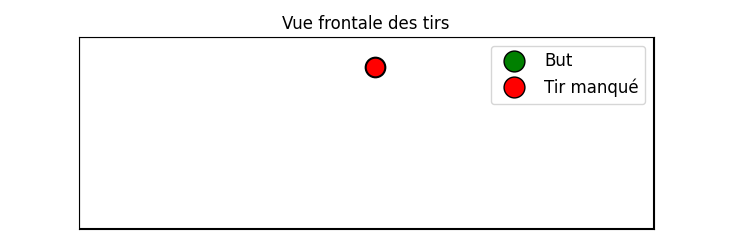
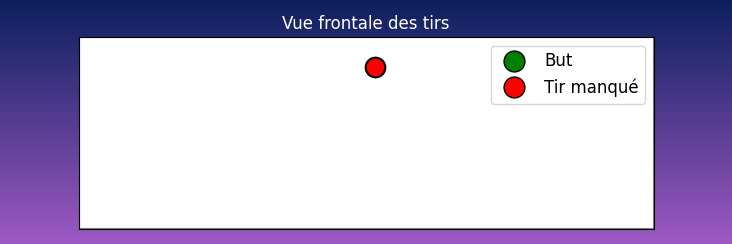
MAJ - new

diff --git a/src/player_visualizer.py b/src/player_visualizer.py
@@ -55,7 +55,7 @@ class PlayerVisualizer:
 
         # Choisir les deux couleurs en hexadecimal
         color1 = "#0c205d"  # Bleu foncé
-        color2 = "#9e59c4"  # Violet
+        color2 = "#8a62d4"  # Violet
 
         # Créer un gradient vertical (de haut en bas)
         gradient = np.linspace(0, 1, 256).reshape(-1, 1)
@@ -82,7 +82,8 @@ class PlayerVisualizer:
 
         gs = GridSpec(2, 2, width_ratios=[3, 1])
 
-        pitch = VerticalPitch(pitch_type='opta', pitch_color='#4b0082', line_color='white', linewidth=2)
+        # Créer un objet pitch avec un fond transparent (alpha=0)
+        pitch = VerticalPitch(pitch_type='opta', pitch_color='none', line_color='white', linewidth=2)
         ax_pitch = fig.add_subplot(gs[:, 0])
         pitch.draw(ax=ax_pitch)
 
@@ -168,7 +169,7 @@ class PlayerVisualizer:
 
         # Choisir les deux couleurs en hexadecimal
         color1 = "#0c205d"  # Bleu foncé
-        color2 = "#9e59c4"  # Violet
+        color2 = "#4955c1"  # Violet
 
         # Créer un gradient vertical (de haut en bas)
         gradient = np.linspace(0, 1, 256).reshape(-1, 1)
@@ -357,7 +358,7 @@ class PlayerVisualizer:
     
         # Choisir les deux couleurs en hexadecimal
         color1 = "#0c205d"  # Bleu foncé
-        color2 = "#9e59c4"  # Violet
+        color2 = "#4955c1"  # Violet
 
         # Créer un gradient vertical (de haut en bas)
         gradient = np.linspace(0, 1, 256).reshape(-1, 1)
@@ -434,7 +435,7 @@ class PlayerVisualizer:
     
         # Choisir les deux couleurs en hexadecimal
         color1 = "#0c205d"  # Bleu foncé
-        color2 = "#9e59c4"  # Violet
+        color2 = "#4955c1"  # Violet
 
         # Créer un gradient vertical (de haut en bas)
         gradient = np.linspace(0, 1, 256).reshape(-1, 1)
@@ -519,7 +520,7 @@ class PlayerVisualizer:
 
             # Choisir les deux couleurs en hexadecimal
             color1 = "#0c205d"  # Bleu foncé
-            color2 = "#9e59c4"  # Violet
+            color2 = "#4955c1"  # Violet
 
             # Créer un gradient vertical (de haut en bas)
             gradient = np.linspace(0, 1, 256).reshape(-1, 1)
